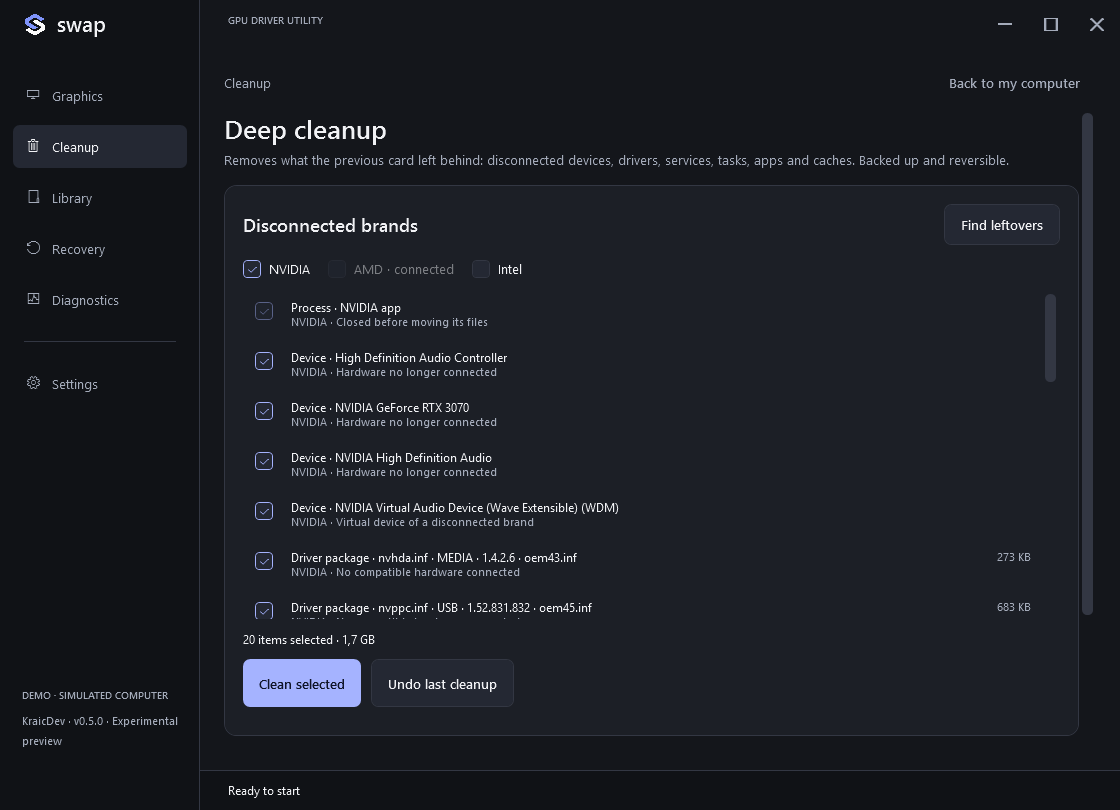
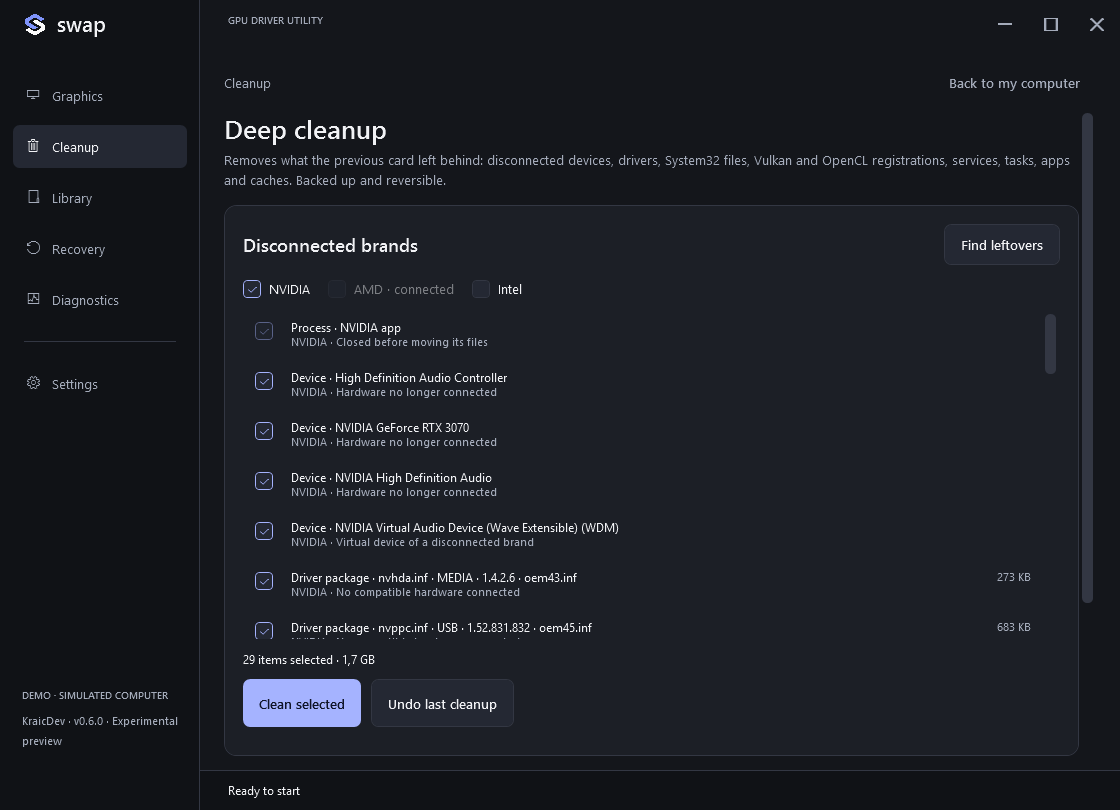
Record exact 0.6.0 executable validation in isolated Windows — KraicDev
The CI executable of db194ee (SHA-256 CE5BF7F8…25CC) passed 196/196
guest checks with the API probe and deep-cleanup lab, 157/157 interface
cases and 12 environment checks. README screenshots come from the same
executable in demo mode.

diff --git a/docs/validation/V060-RESULTS.md b/docs/validation/V060-RESULTS.md
@@ -1,0 +1,41 @@
+# Swap 0.6.0 preview validation
+
+KraicDev · 13 October 2026.
+
+The exact GitHub Actions executable passed isolated Windows validation. **Experimental preview; a physical GPU replacement and games remain to be confirmed on real hardware.**
+
+| Item | Result |
+| --- | --- |
+| Source commit | `db194eeaff4c0e3972d7dc23fff4302229c07de4` |
[1 lines of base64/hex data omitted]
+| Executable bytes | 65,834,128 |
+| CI logic regression | 190 passed, 0 failed |
+| Guest logic, native probes, API check and deep-cleanup lab | 196 passed, 0 failed |
+| Actual WPF interface and simulated workflows (games panel, guided card change) | 157 passed, 0 failed |
+| Environment and executable identity checks | 12 passed |
+| Guest captures / initial work-area fit | 47 / passed |
+| Guest | Windows 10 Enterprise LTSC Evaluation, 10.0.19044 x64 |
+| Preinstalled .NET / network / GPU passthrough | None / disabled / none |
+| Guest active Display driver | Unchanged |
+| Host Display drivers / host restart | Unchanged / none |
+| Authenticode | Not signed; free provider review pending |
+
+[Exact CI build](https://github.com/zKraic/Swap/actions/runs/38386927934) · [Machine-readable evidence](v060-result.json) · [Comparison with Display Driver Uninstaller](../COMPARISON-DDU.md) · [Physical validation tracker](https://github.com/zKraic/Swap/issues/3).
+
+The CI archive and its SHA-256 were checked before copying the executable to read-only VM media; the guest checked the same hash again. The guest ran as SYSTEM in a non-interactive session; display enumeration there reports no monitors and is recorded as an observation. The evaluation image powers itself off every hour, so the logic and lab checks ran in one boot and the interface audit after a restart of the same clean guest.
+
+## What the validation changed
+
+Running the release candidate in the slow emulated guest found three robustness problems, fixed before this build: the main inventory and the display-event query finished after their 180-second limits and their complete results were discarded (signed display drivers are now filtered in WMI, 2.5 times faster on a real PC, and read-only queries get 10 minutes), and a scheduled-task export that finished late stopped the whole deep cleanup instead of being reported on that item.
+
+## Graphics API check
+
+`Swap.Tests.exe --api-probe-readonly` runs the same child-process check as the application. On a real GeForce GTX 1060 (host, read-only): Direct3D 12 feature level 12_1, Vulkan 1.4.312, OpenCL 3.0 CUDA, 1.4 s. In the guest (Microsoft Basic Display Adapter): no hardware Direct3D 12 device, no Vulkan or OpenCL loader, completed without errors in 4.3 s.
+
+## Deep cleanup lab
+
+Four real signed NVIDIA driver packages (`nvhda.inf`, `nvpcf.inf`, `nvppc.inf`, `nvvad.inf`) staged without NVIDIA hardware, with vendor-like services, a scheduled task, a startup entry, a Programs entry, folders (including a protected PhysX folder), a per-user cache, settings and a running process. The real Windows platform planned them with evidence, stopped the process, exported and sealed backups in an administrator-only folder, removed them, kept PhysX and undid the cleanup. Result: 16 items removed, 14 restored by undo (everything that has a backup), 0 failures; the backup folder ACL was checked to be Administrators and SYSTEM only.
+
+The measured comparison with the official AMD display driver and Display Driver Uninstaller is documented separately in [COMPARISON-DDU.md](../COMPARISON-DDU.md).
+
+**Not tested:** physical NVIDIA/AMD/Intel Arc replacement, real vendor suites, online Windows Update downloads, OEM/hybrid hardware, interactive continuation after a driver-change restart, Windows 11 hardware and games. Virtual observations and the labs do not certify those scenarios. All DPI/monitor combinations are not covered.

diff --git a/README.md b/README.md
@@ -4,7 +4,7 @@
 
 **Prepare Windows after connecting a graphics card of another brand.** NVIDIA, AMD and Intel Arc. Installs the new driver, then removes what the old card left behind, with a backup and an undo button. Free, open source, no account or subscription.
 
-> **Experimental preview · Windows 10/11 x64.** Driver installation has been tested with a simulated backend, not a physical GPU replacement. Deep cleanup and the disconnected-device fix were exercised on an isolated Windows 10 guest with real signed driver packages. Evaluate diagnostics and demo first. The executable is unsigned; trusted signing depends on external approval. [Validation](docs/validation/V050-RESULTS.md) · [Code signing policy](docs/SIGNING.md).
+> **Experimental preview · Windows 10/11 x64.** Driver installation and the guided card change have been tested with a simulated backend, not a physical GPU replacement or games. Deep cleanup was exercised on an isolated Windows 10 guest with real signed driver packages and measured against Display Driver Uninstaller with the official AMD display driver. Evaluate diagnostics and demo first. The executable is unsigned; trusted signing depends on external approval. [Validation](docs/validation/V060-RESULTS.md) · [Comparison with DDU](docs/COMPARISON-DDU.md) · [Code signing policy](docs/SIGNING.md).
 
 ![Actual Swap interface in demo mode](.github/media/app-dark-en.png)
 

diff --git a/.github/RELEASE_NOTES.md b/.github/RELEASE_NOTES.md
@@ -10,7 +10,7 @@ Use Swap **after connecting the new graphics card** — or, new in 0.6.0, **befo
 
 **Experimental preview for Windows 10/11 x64.** Physical GPU replacement and games are not yet confirmed on real hardware; the comparison is one driver in one virtual machine. Start with diagnostics or demo mode. Remote sessions and pending servicing restarts block driver changes.
 
-**Exact executable validated.** __VALIDATION__
[1 lines of base64/hex data omitted]
 
 Download **Swap.exe** directly. No Swap installer, ZIP or separate .NET installation is required. Windows administrator permission is required; Windows may require a restart after changing a driver.
 

diff --git a/README.es.md b/README.es.md
@@ -4,7 +4,7 @@
 
 [Página](https://zkraic.github.io/Swap/) · [Descargar](https://github.com/zKraic/Swap/releases) · [English](README.md)
 
-**Versión experimental 0.5.0.** La instalación se probó con un backend simulado. La limpieza profunda y la corrección del dispositivo desconectado se probaron en un Windows 10 aislado con paquetes de driver firmados reales. Falta validar un cambio físico de tarjeta; la firma depende de aprobación externa. [Resultados](docs/validation/V050-RESULTS.md).
+**Versión experimental 0.6.0.** La instalación y el cambio guiado se probaron con un backend simulado. La limpieza profunda se probó en un Windows 10 aislado con paquetes de driver firmados reales y se midió frente a Display Driver Uninstaller con el driver oficial de AMD. Falta validar un cambio físico de tarjeta y juegos; la firma depende de aprobación externa. [Resultados](docs/validation/V060-RESULTS.md) · [Comparación con DDU](docs/COMPARISON-DDU.md).
 
 ![Interfaz real de Swap en modo demo](.github/media/app-dark.png)
 
